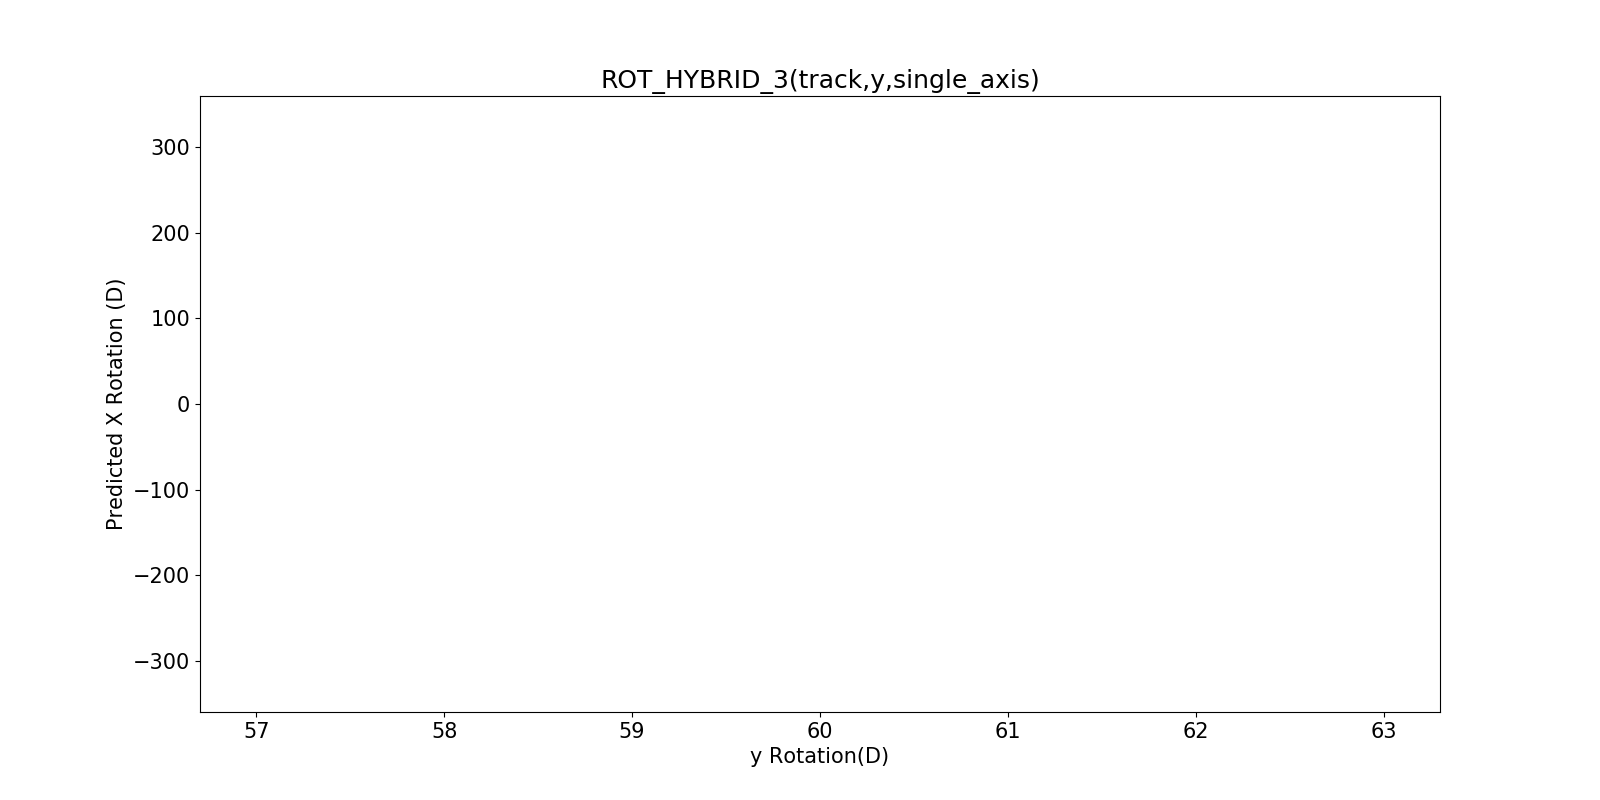
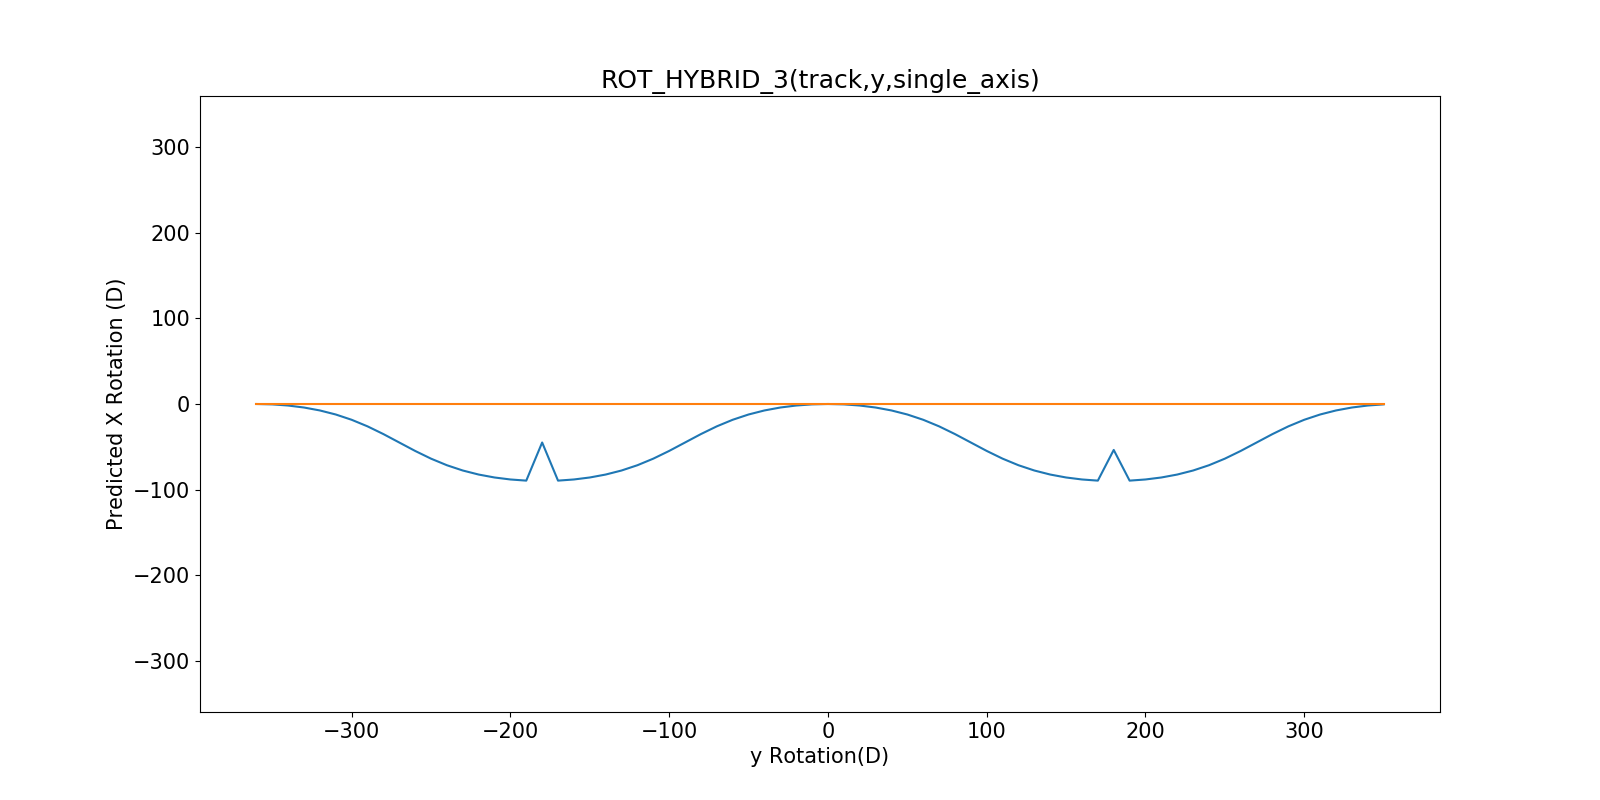
major bug fix in shift_origin.py bug: second alignment wrt to reference vector was wrong theta was calculated between previous rotation axis and x-axis now it is calculated between whole frame cog and referece vector

diff --git a/source/shift_origin.py b/source/shift_origin.py
@@ -7,7 +7,6 @@ def _shiftOrigin(cords,origin):
   new_cords['x']=new_cords['x']-origin[0]
   new_cords['y']=new_cords['y']-origin[1]
   new_cords['z']=new_cords['z']-origin[2]
-
   return new_cords
 
 def shiftOrigin(frame1_cords,frame2_cords,process='rotation'):
@@ -41,18 +40,18 @@ def shiftOrigin(frame1_cords,frame2_cords,process='rotation'):
   new_frame1_cords=physics.rotateAlongAxis(new_frame1_cords,axis,theta)
   new_frame2_cords=physics.rotateAlongAxis(new_frame2_cords,axis,theta)
   
-  cog=physics.getCog(new_frame1_cords) 
+  whole_frame_cog=physics.getCog(new_frame1_cords) 
   if config.axis=='x':
     ref_axis=[0,1,1]
-    cog[0]=0
+    whole_frame_cog[0]=0
   elif config.axis=='y':
     ref_axis=[1,0,1]
-    cog[1]=0
+    whole_frame_cog[1]=0
   elif config.axis=='z':
     ref_axis=[1,1,0]
-    cog[2]=0
+    whole_frame_cog[2]=0
   #axis=vector.getCrossProduct(com,ref_axis)
-  theta=vector.getAngleR(axis,ax)
+  theta=vector.getAngleR(whole_frame_cog,ref_axis)
 
   new_frame1_cords=physics.rotateAlongAxis(new_frame1_cords,ax,theta)
   new_frame2_cords=physics.rotateAlongAxis(new_frame2_cords,ax,theta)

diff --git a/source/rotation.py b/source/rotation.py
@@ -251,6 +251,8 @@ def rot_mol_plane_3(frame1_cords,frame2_cords,part='ring',atom_list=[]):
   frame2_coplanar_atom_cords_list=frame2_part_cords_df[frame2_part_cords_df['atom_no'].isin(coplanar_atom_no_list)][['x','y','z']].values[:-1]
   frame1_plane=vector.getPlaneNormal(frame1_coplanar_atom_cords_list)
   frame2_plane=vector.getPlaneNormal(frame2_coplanar_atom_cords_list)
+  print(frame1_plane)
+  print(frame2_plane)
   part_rotation=getRPYAngles(frame1_plane,frame2_plane,axis=config.axis)[axis]
   '''
   RPY gives accurate results when vector are perpendicular to the axis of rotation
@@ -366,6 +368,8 @@ def findCoplanarAtoms(df):
           dihedral_angle=vector.getDihedralAngle(p,unit='radians')
           if np.abs(dihedral_angle-math.pi)<error or np.abs(dihedral_angle)<error:
             out_atom_no_list=[atom1_no,atom2_no,atom3_no,atom4_no]
+            print(dihedral_angle)
+            print(out_atom_no_list)
             return out_atom_no_list
 
 def fixArcDomain(v):

diff --git a/verification/assessment_of_methods.py b/verification/assessment_of_methods.py
@@ -14,11 +14,11 @@ def assessRotationMethodSingleAxis(method='rot_hybrid_3',step_size=10):
   frame2_no=1
   zero_rpy=[0,0,0]
   for part in ['track']:
-    for axis in range(1,2):
+    for axis in range(2,3):
       rpy=[0,0,0]
       x=[]
       y=[]
-      for theta in range(60,61,step_size):
+      for theta in range(-360,360,step_size):
         rpy[axis]=theta
         if part=='ring':
           make_test_systems.ringTrackTwoFramesNonIdeal(ring_rpy=rpy,track_rpy=zero_rpy)
@@ -166,6 +166,7 @@ def plot3(X,Y,Z_expected,Z_predicted,method='rot_atomic_r_t',part='',axis=0,asse
   ax.set_zlabel('Expcted/Predicted X Rotation')
   pickle.dump(fig, open('output/assessment_'+method+'/'+part+'/'+title+'.fig.pickle', 'wb'))
   plt.show()
+
 
 method='rot_hybrid_3'
 assessRotationMethodSingleAxis(method=method)

diff --git a/verification/make_test_systems.py b/verification/make_test_systems.py
@@ -151,7 +151,7 @@ def ringTrackTwoFramesNonIdeal(ring_rpy=[0,0,0],track_rpy=[0,90,0]):
   #transform both frames
   
   axis=[1,1,1]
-  theta=0.0001
+  theta=0
   distance=0
   frame1_final_cords_df=rotation.rotateAlongAxis(frame1_initial_cords_df,axis,math.radians(theta))
   frame2_final_cords_df=rotation.rotateAlongAxis(frame2_initial_cords_df,axis,math.radians(theta))
